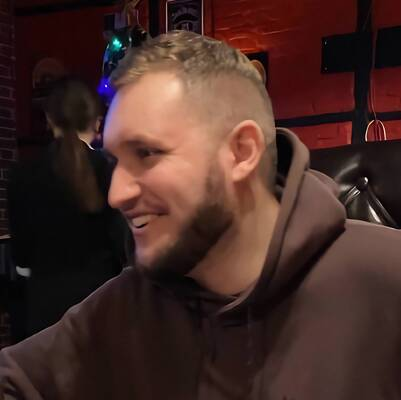
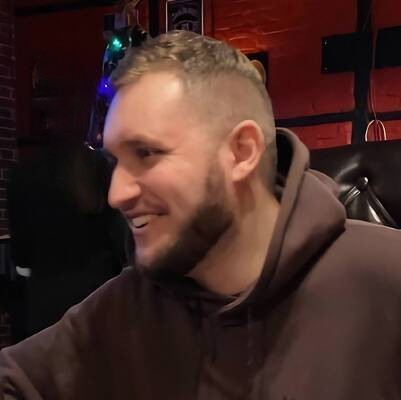
fix

Changed region(s): [[0.1197, 0.21, 0.2693, 0.51]]

diff --git a/src/partials/hero.html b/src/partials/hero.html
@@ -9,15 +9,12 @@
       <a class="hero__btn btn btn-reset" href="Vitaliy Stepnov,Fronted-developer.pdf" download
         aria-label="Скачать резюме">Скачать резюме</a>
     </div>
-    <a class="hero__link" data-fslightbox="gallery-1" href="img/vitaliystepnov404.jpg" data-aos="fade-left"
-      data-aos-duration="1000">
-      <picture>
-        <source media="(min-width: 576px)" srcset="img/vitaliystepnov_2x.webp 2x" type="image/webp">
-        <source media="(max-width: 575px)" srcset="img/vitaliystepnov.webp" type="image/webp">
-        <source srcset="img/vitaliystepnov.webp" type="image/webp">
-        <img src="img/vitaliystepnov.jpg" srcset="img/vitaliystepnov_2x.jpg 2x" class="hero__image" width="450"
-          height="450" alt="Виталий Степнов">
-      </picture>
-    </a>
+    <picture>
+      <source media="(min-width: 576px)" srcset="img/vitaliystepnov_2x.webp 2x" type="image/webp">
+      <source media="(max-width: 575px)" srcset="img/vitaliystepnov.webp" type="image/webp">
+      <source srcset="img/vitaliystepnov.webp" type="image/webp">
+      <img src="img/vitaliystepnov.jpg" srcset="img/vitaliystepnov_2x.jpg 2x" class="hero__image" width="450"
+        height="450" alt="Виталий Степнов" data-aos="fade-left" data-aos-duration="1000">
+    </picture>
   </div>
 </section>

diff --git a/src/scss/components/_hero.scss b/src/scss/components/_hero.scss
@@ -61,22 +61,12 @@
     }
   }
 
-  &__link {
+  &__image {
+    display: block;
     @include shadowAnimation;
 
     box-shadow: 300px 300px 300px rgba(2, 170, 176, 0.9);
     border-radius: 30px;
     animation: shadowAnimation 2s ease-in-out infinite;
-
-    &:focus {
-      outline: 2px solid var(--accent-color);
-      outline-offset: 4px;
-      border-radius: 30px;
-    }
-  }
-
-  &__image {
-    display: block;
-    border-radius: 30px;
   }
 }
